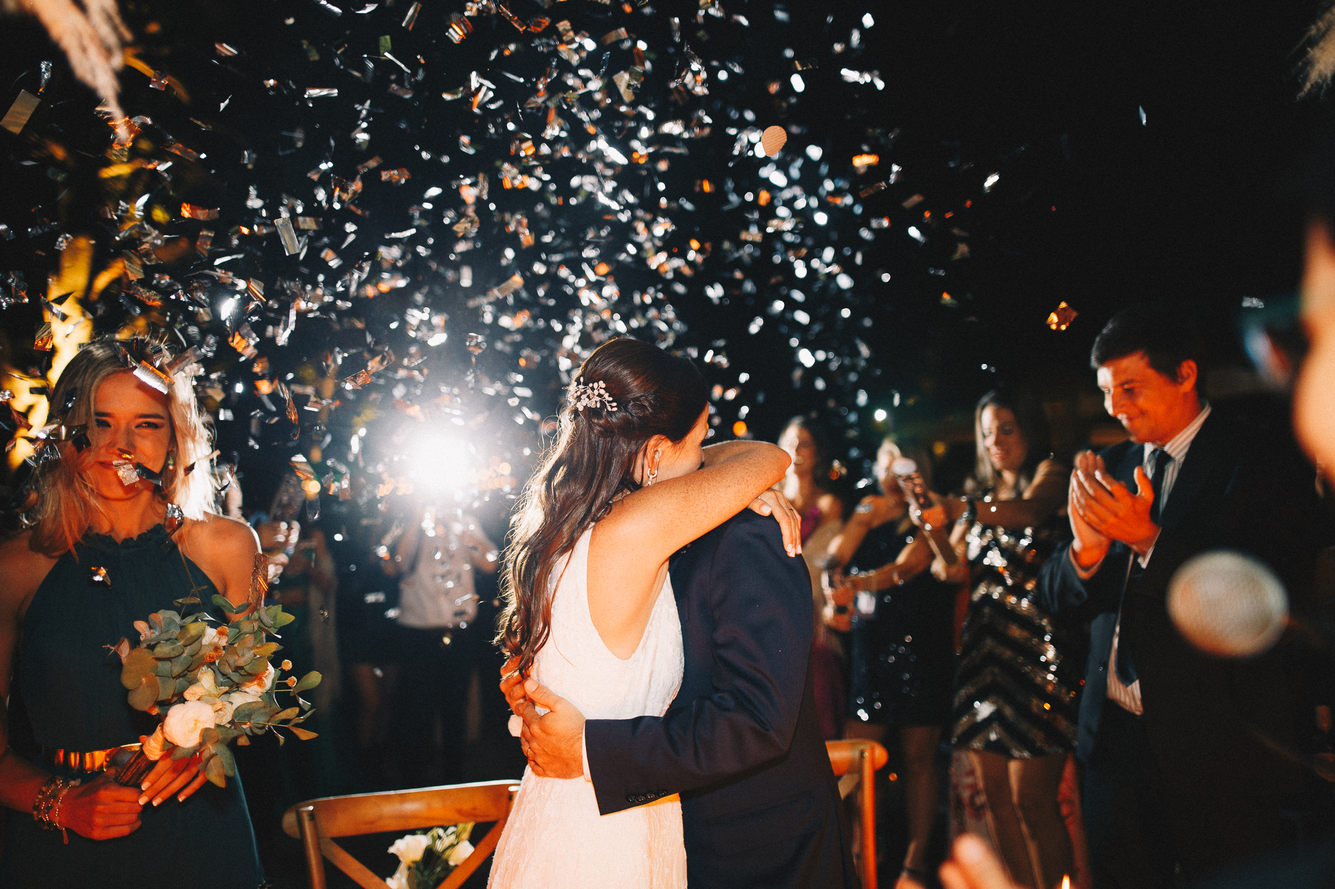
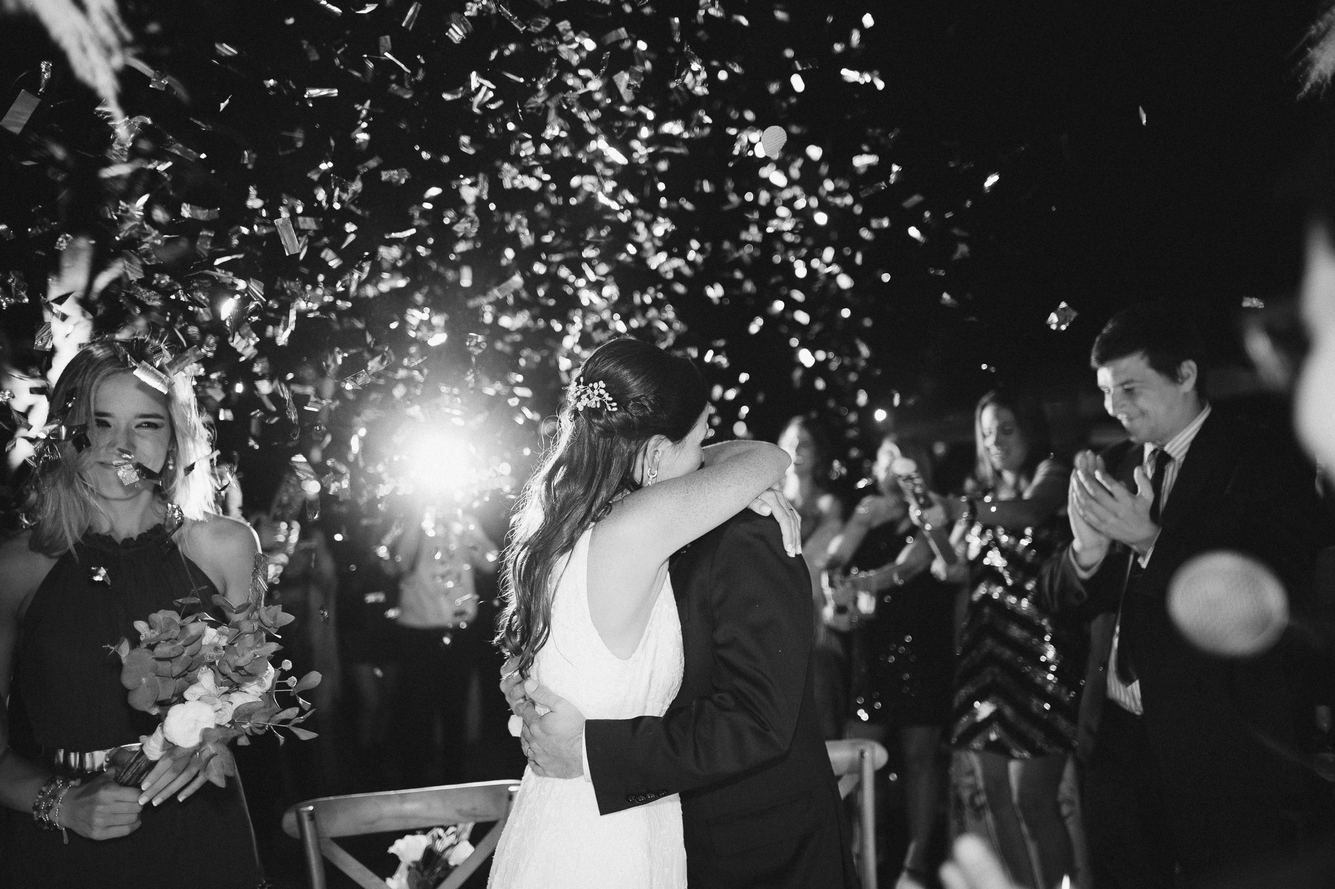
cambios

diff --git a/assets/style/home2.css b/assets/style/home2.css
@@ -45,7 +45,7 @@ h4.descripcion{
 .navbar{
     background-color: rgba(255, 255, 255, 0.808);
     height: 80px;
-    margin-bottom: 1.5%;
+    margin-bottom: -2%;
     text-align: center;
     justify-content: center;
 }
@@ -420,7 +420,14 @@ img.galeriaimg{
         padding: 0 auto; 
         }
 
-        
+    img.preparativo{
+        width: 60%;
+        align-items: center;
+    }
+
+    div.imgdesc.aos-init.aos-animate{
+        margin-left: 30%;
+    }
         
     img.imgcontacto3{
         width: 8%;
@@ -491,7 +498,10 @@ img.galeriaimg{
         height: 100%;
      }
 
-
+     img.preparativo{
+        width: 60%;
+        align-items: center;
+    }
 
      .main-img{
         display: flex;

diff --git a/index.html b/index.html
@@ -52,7 +52,7 @@
     
       <div class="main-img">
           <div class="contenedorimg  animate__animated animate__fadeIn">
-            <img src="./assets/img/galeria/eventos/angeles-nahuel/Angeles_NahuelCivil-131.jpg" class="imgmain">
+            <img src="./assets/img/galeria/eventos/angeles-nahuel/inicio.png" class="imgmain">
           </div>
        </div>
 
